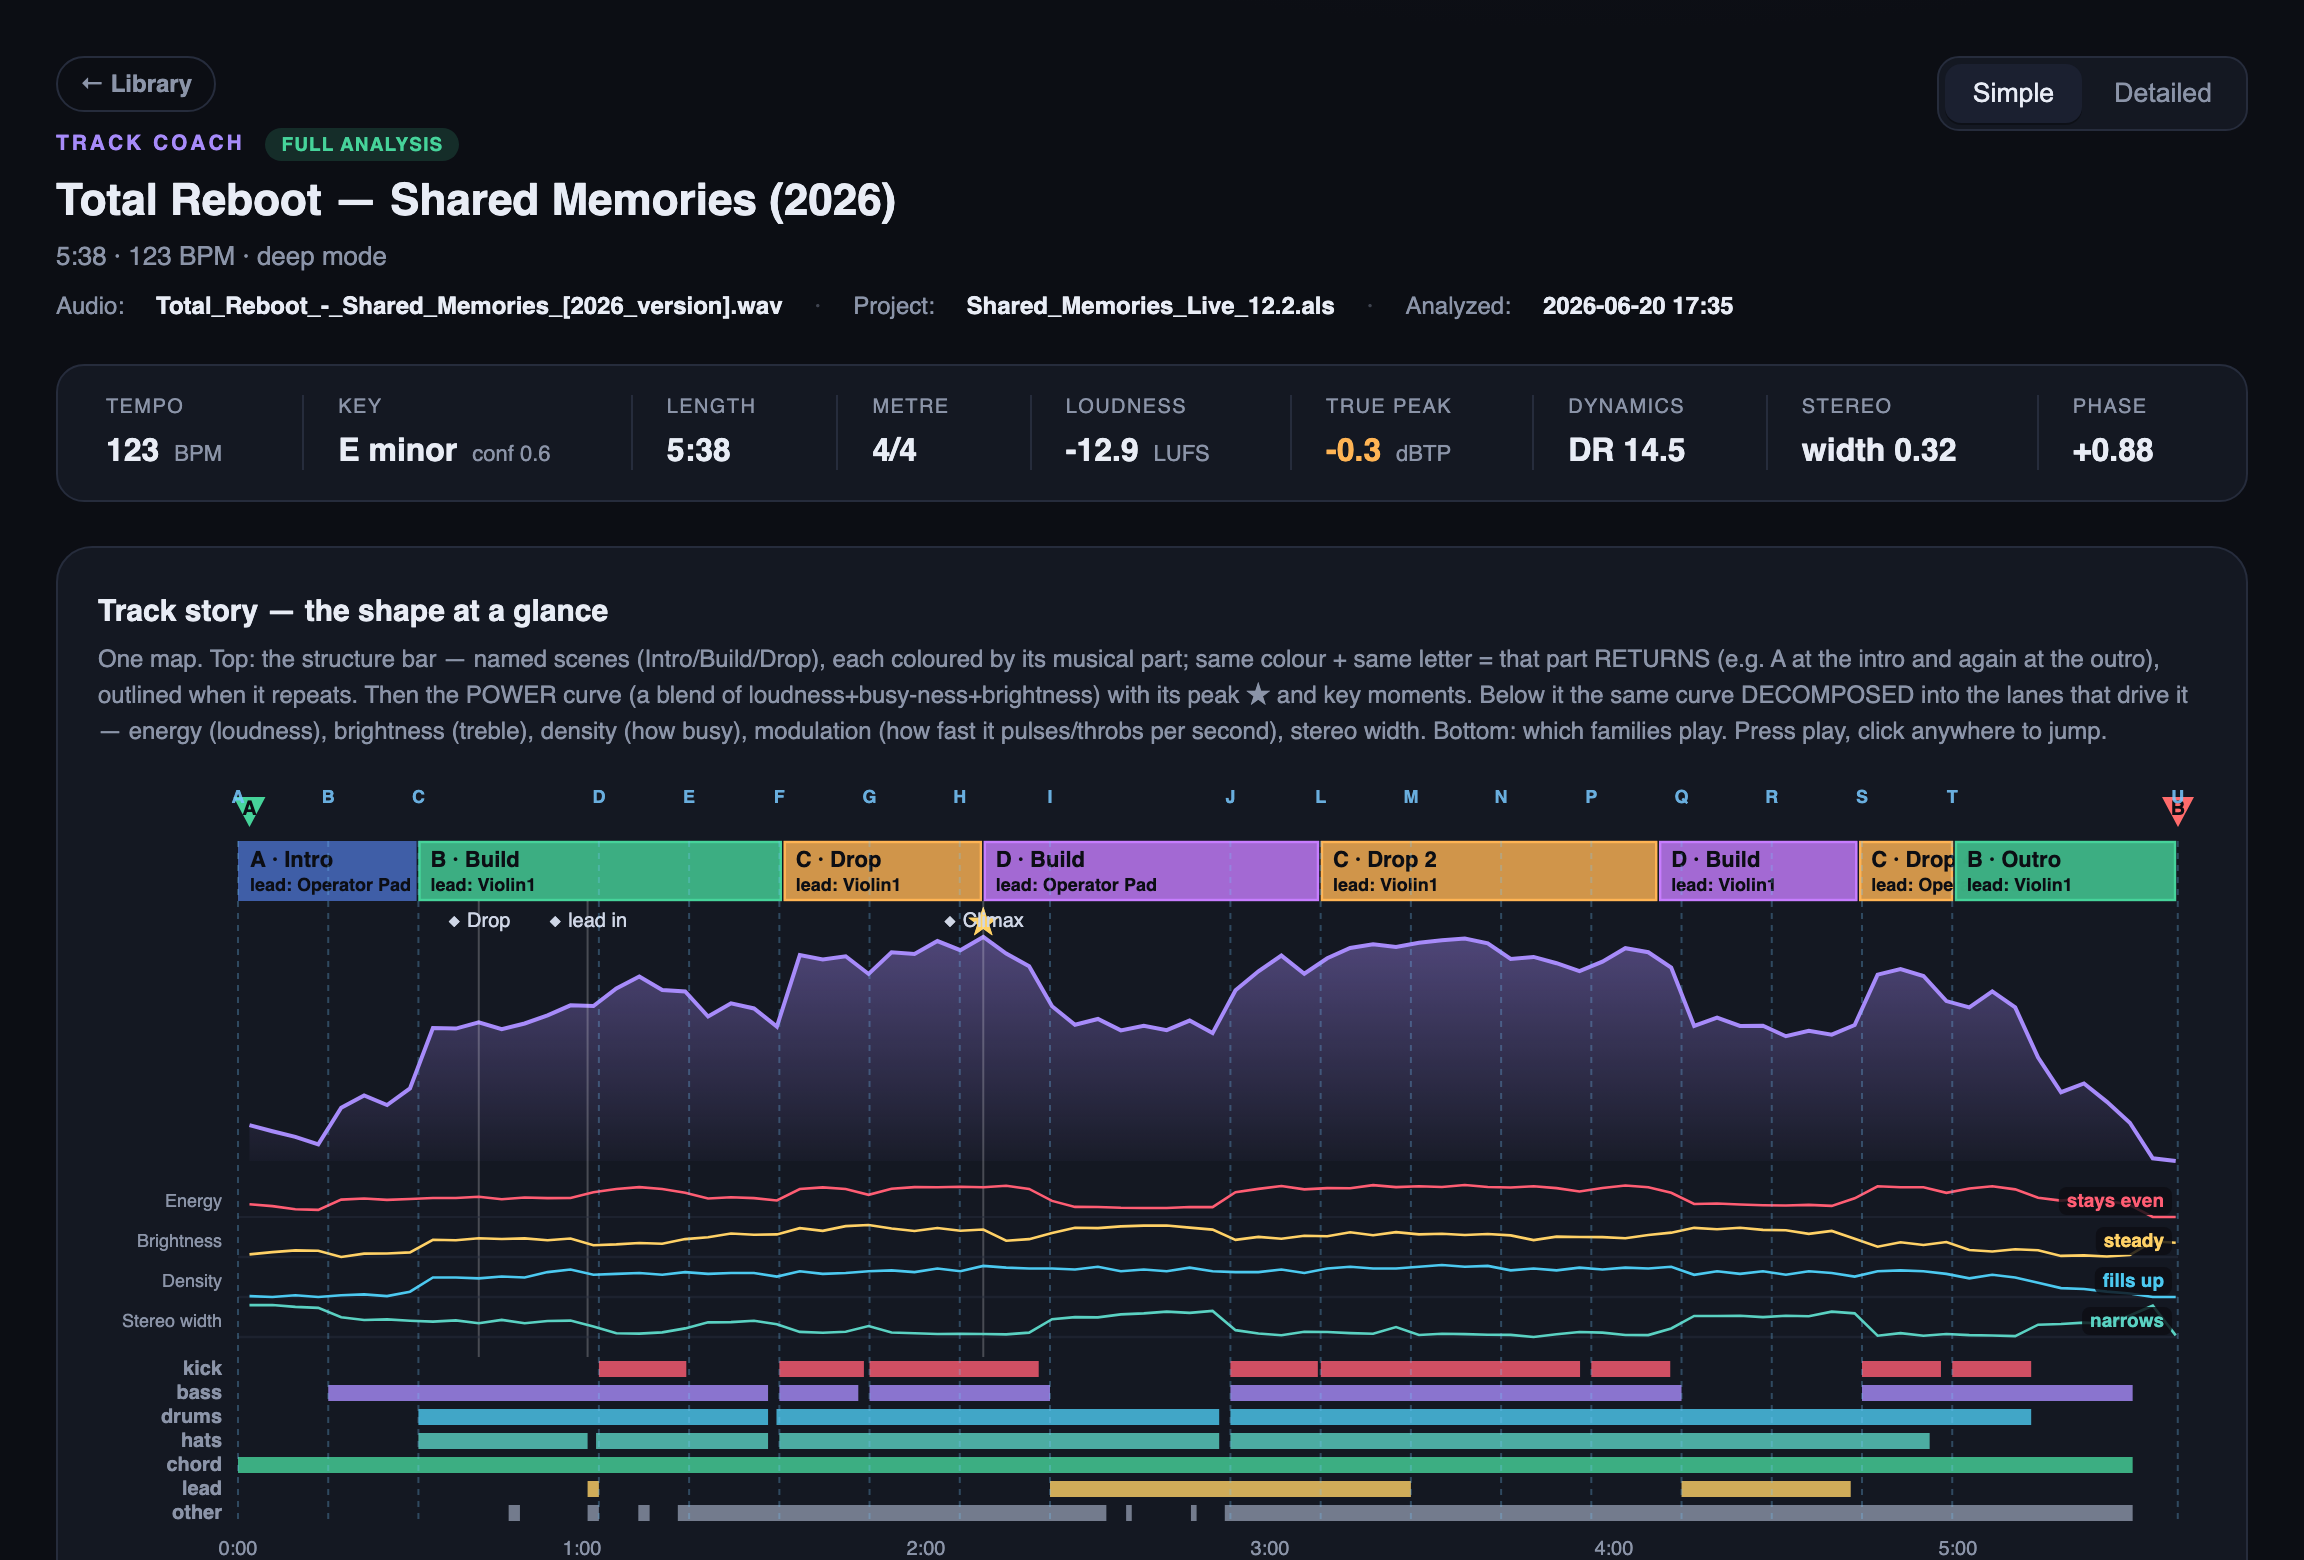
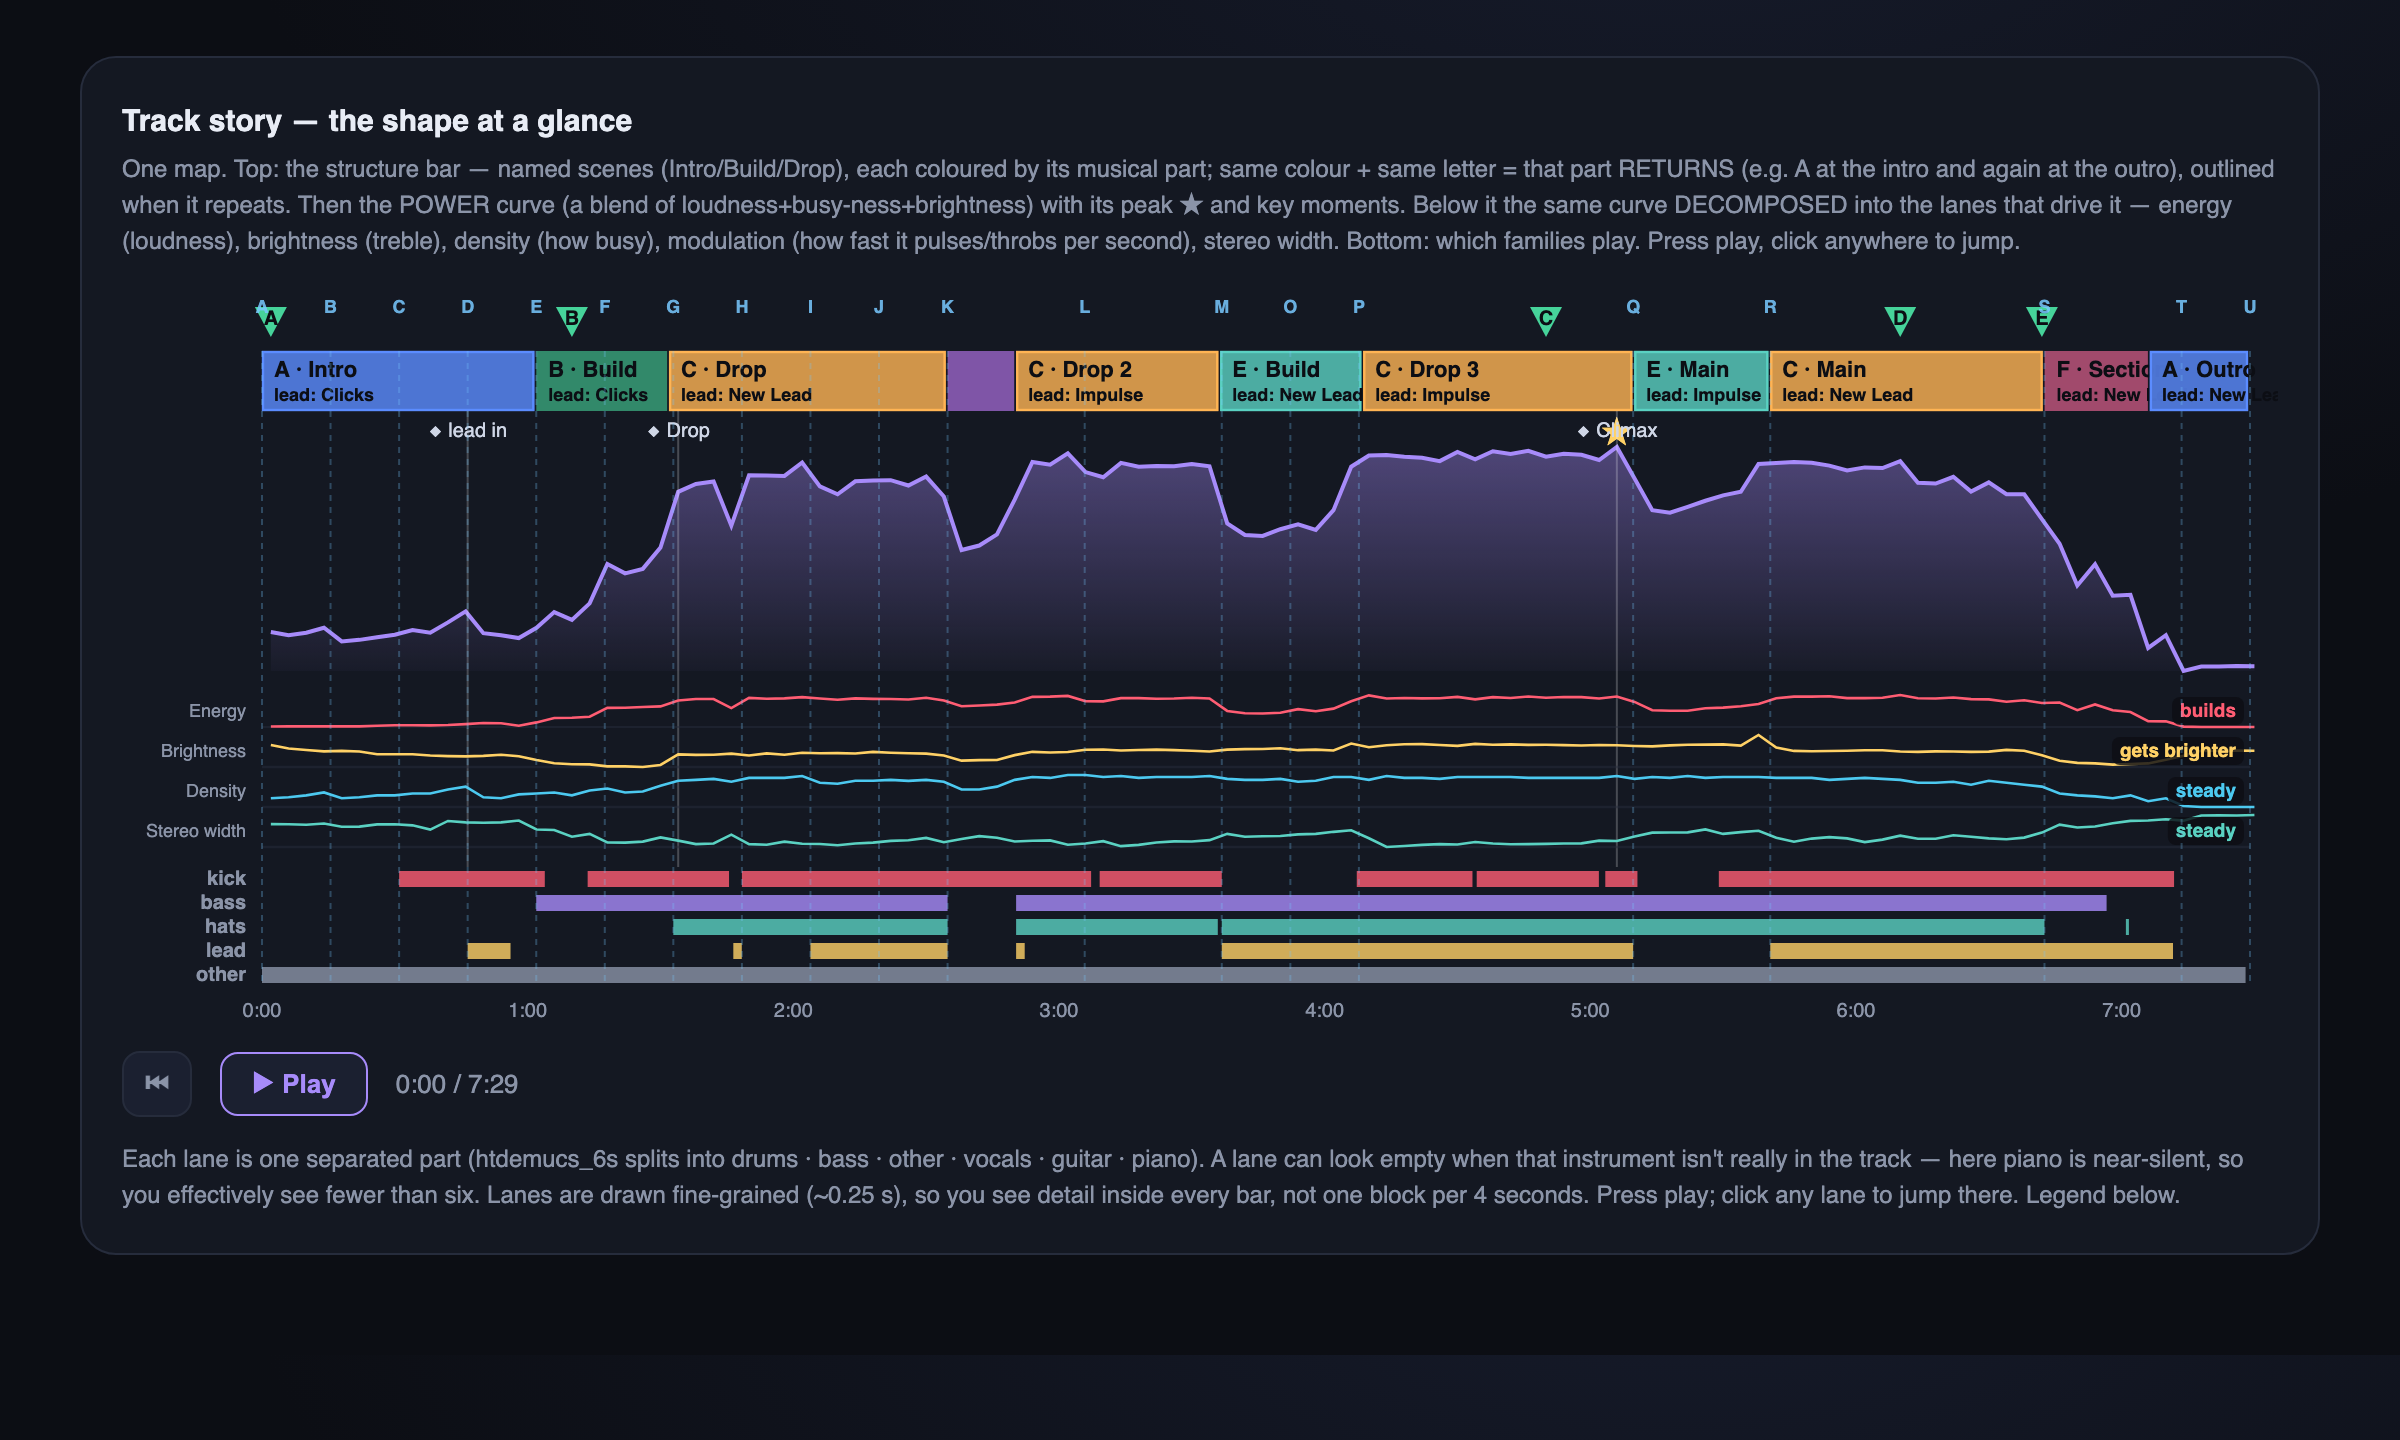
0.8.29: card→graph navigation + screenshot reshoot + README trim
- Card evidence NAVIGATION (SPEC §B.13 build order, half 2): clicking a timecoded
  card seeks + scrolls to the graph and now pulses the graph panel so the eye lands
  where the playhead jumped. CSS/DOM only — the canvas draw is untouched (the fragile
  surface). Matrix INV-34; test CardClickPulsesTheGraph written red-first → green.
- Screenshots reshot (sonnet-worker, ~28k tok off main): docs/hero.png = the whole
  main graph; docs/recommendations.png = cards now showing their 'Based on' lines.
- README: dropped the standalone 'Evidence & detail' section (raw file-dump data;
  the drawer is still covered in the view-ladder section) per Sasha.
- 3 library widgets re-deposited at 0.8.29.

diff --git a/scripts/build_widget.py b/scripts/build_widget.py
@@ -28,7 +28,7 @@ Usage:
 import sys, argparse, json, math, copy, re
 from pathlib import Path
 
-TC_VERSION = "0.8.28"   # Track Coach analyzer version (early; bump as it matures)
+TC_VERSION = "0.8.29"   # Track Coach analyzer version (early; bump as it matures)
 
 BAND_ORDER = ["sub", "low", "low_mid", "mid", "hi_mid", "air"]
 BAND_LABEL = {  # frequency ranges — language-neutral, never translated
@@ -2291,6 +2291,10 @@ canvas{width:100%;display:block;border-radius:10px;cursor:crosshair}
 /* §B.13 card evidence — a quiet "where this came from" line; transparency, never shouting. */
 .rec p.based{margin-top:8px;font-size:12px;line-height:1.5;color:var(--muted,#8b93a7)}
 .basedlab{display:inline-block;font-size:9.5px;font-weight:700;letter-spacing:.5px;color:#7c8398;margin-right:6px;text-transform:uppercase}
+/* INV-34 — card-click navigation: a brief pulse on the graph panel so the eye lands where the playhead
+   jumped. CSS-only (the canvas draw is untouched). */
+@keyframes graphpulse{0%{box-shadow:0 0 0 0 rgba(124,107,255,0)}18%{box-shadow:0 0 0 3px rgba(124,107,255,.55)}100%{box-shadow:0 0 0 0 rgba(124,107,255,0)}}
+#storyPanel.pulse{animation:graphpulse 1.1s ease-out;border-radius:12px}
 .empty-note{color:var(--bad);font-size:12px;margin:0 0 12px;font-weight:600}
 .foot{color:var(--muted);font-size:11.5px;margin-top:8px;text-align:center}
 .scale{display:flex;align-items:center;gap:8px;font-size:11px;color:var(--muted);margin-top:8px}
@@ -2637,7 +2641,11 @@ document.getElementById("recs").innerHTML=D.recs.map((r,i)=>{
  return `<div class="rec ${r.cls}${tb?' tb':''}"${dl}${jump}>${tag}${chip}<h3>${r.h}</h3><p>${r.p}</p>${fix}${based}</div>`;}).join("")||"<p class='hint'>—</p>";
 document.getElementById("recs").querySelectorAll(".rec[data-t]").forEach(el=>
  el.onclick=()=>{const t=+el.dataset.t;if(window.__seek)window.__seek(t);
-  document.getElementById("storyPanel").scrollIntoView({behavior:"smooth",block:"start"});});
+  const sp=document.getElementById("storyPanel");sp.scrollIntoView({behavior:"smooth",block:"start"});
+  // INV-34: a brief attention pulse on the graph PANEL (CSS/DOM only — never the canvas) so the eye
+  // catches that the playhead jumped to this card's moment. Reflow reset lets repeat clicks re-fire it.
+  sp.classList.remove("pulse");void sp.offsetWidth;sp.classList.add("pulse");
+  setTimeout(()=>sp.classList.remove("pulse"),1200);});
 
 const getCss=v=>getComputedStyle(document.documentElement).getPropertyValue(v).trim();
 // floating tooltip that follows the cursor over a chart (replaces the fixed bottom readout)

diff --git a/tests/test_widget_render.py b/tests/test_widget_render.py
@@ -195,6 +195,14 @@ class PlayerIsWired(unittest.TestCase):
         self.assertIn("if(wasPlaying)Promise.all(auds.map(s=>s.a.play()))", html,
                       "seekTo must resume (and re-sync) playback after a mid-play seek")
 
+    def test_card_click_pulses_the_graph(self):  # INV-34 (SPEC §B.13 navigation), 0.8.28
+        # Clicking a timecoded card must draw the eye to the moment on the graph: seek + scroll + a brief
+        # CSS pulse on the graph panel. The pulse is DOM/CSS only — it must not touch the canvas draw.
+        html, _ = _render(stems=("drums", "bass"))
+        self.assertIn('classList.add("pulse")', html, "card click must pulse the graph panel")
+        self.assertRegex(html, r"@keyframes\s+graphpulse", "missing the graph pulse animation")
+        self.assertRegex(html, r"#storyPanel\.pulse", "missing the .pulse rule on the graph panel")
+
 
 class QuickRunGivesAMixPlayer(unittest.TestCase):
     """INV-7. Sasha 2026-06-20 ("плеер какая разница быстрый прогон?"): a quick run has no stems

diff --git a/docs/SPEC.md b/docs/SPEC.md
@@ -493,8 +493,9 @@ classification, drum-hit breakdown, masking, role — already exist; this is the
 
 #### B.11.1 Resolution (2026-06-22) — BRIGHTNESS is descriptive, not a prescriptive per-stem card (Sasha)
 When A1 (per-measure validity) reached brightness, Sasha rejected the *premise*, not just the threshold:
-*"я пока не убеждён что что-то должно быть ярче чего-то… а ошибка это или нет, тебе откуда знать? может там
-барабаны должны врываться, а может синт. думаю это лучше потом на визуализацию какую-то спихнуть."* The point:
+*"I'm not convinced yet that anything *should* be brighter than anything else — and whether it's a mistake,
+how would you know? Maybe the drums are meant to burst in, maybe a synth. Better to push this to some
+visualization later."* The point:
 a part being **brighter/darker than the rest is not a defect** — brightness divergence carries no intent, the
 coach cannot know whether the bright burst is wanted (a drum fill, a synth stab) or a mistake. A prescriptive
 card ("the lead is brighter than the rest — worth a second listen") therefore **asserts a problem it can't
@@ -514,7 +515,7 @@ justify** (the credibility invariant: don't present a guess as a finding). Resol
    reading. This is a stronger filter than raw validity and is why E2 widens AFTER this, not before.
 
 ### B.12 Producer's read — name HOW it develops, flag an idle axis (2026-06-23, Sasha — the artistic layer)
-The Producer's read is authored prose — *"вот что я слышу и мои мысли по ходу дела"*. Its job is
+The Producer's read is authored prose — *"here's what I hear, and my thoughts as I go"* (Sasha). Its job is
 **OBSERVATION**, not a command: the actionable "do X" lives in the **cards**; the read carries thinking-aloud
 + technical remarks (the two-layer principle, memory `track-coach-two-layers-cards-vs-read`). So the read MAY
 state a precise observation or a soft flag **without** forcing a fake action item.
@@ -526,8 +527,8 @@ observation:
   brightens vs darkens, busier vs thins, widens vs tightens the image. (F1, prover 2026-06-23: dominance is on
   `|trend|`, so any axis can be dominant while moving DOWN — the read must never say "grows by brightness" on a
   darkening track.)
-- **flag an idle axis** as a soft option, never a defect — *"стерео и плотность почти стоят — образ всю
-  дорогу узкий; если хочется раскрытия к финалу, это незанятая ось."*
+- **flag an idle axis** as a soft option, never a defect — *"stereo and density barely move — the image
+  stays narrow the whole way; if you want it to open up toward the finale, that's an unused axis."*
 - **Credibility:** the verdict comes from the measured trends via a pure helper `development_mode(core)`
   reading `energy_trend` / `brightness_trend` / `density_trend` / `stereo_width_trend`. **All four are the SAME
   metric — Pearson correlation of the curve with its time index (`_common.trend`), in [−1,1], scale-invariant
@@ -547,9 +548,9 @@ observation:
   (This SUPERSEDES the earlier "empty narrative → panel always hidden" rule.)
 
 ### B.13 Card evidence — every card names where it came from (the "based-on" line; 2026-06-23, Sasha)
-Sasha: *"показать какие сигналы на каждую карточку повлияли."* Every recommendation card carries a plain
+Sasha: *"show which signals drove each card."* Every recommendation card carries a plain
 line saying what it is **based on**. The credibility trap (memory `track-coach-card-evidence`): a raw lone
-number/tag says nothing — *"динамика 30.7 — это много? в апельсинах или чебурашках?"*. So the based-on line is
+number/tag says nothing — *"dynamics 30.7 — is that a lot? measured in what, oranges?"* (Sasha). So the based-on line is
 in **plain language, never a bare metric identifier** (`true_peak_db`, `dynamic_range_db`).
 - **Scope of "every card" (F2, prover 2026-06-23): the `D.recs` list** rendered at `#recs` (the "Start here"
   advice) — mix-level recs AND per-stem cards. The separately-built note cards in the separation / rhythm /
@@ -560,10 +561,15 @@ in **plain language, never a bare metric identifier** (`true_peak_db`, `dynamic_
   **fused (Tier-B/C)** card names the **combination** ("the bass and the lead overlap around ≈290 Hz for ~half
   the track"), the fusion from `signal_value_map.md`. Source is multi-level: a whole-track signal / a separated
   part / an `.als` moment.
-- **Build order = MEANING then NAVIGATION** (Sasha): (1) the plain based-on line per card — THIS increment;
-  (2) click→highlight the lane / part / moment on the graph — next, UI-risky, deferred.
-- **Subtle in the UI** — transparency, not overload (the "не перегружать" steer). A quiet muted line under the
-  card body.
+- **Build order = MEANING then NAVIGATION** (Sasha): (1) the plain based-on line per card — done 0.8.27;
+  (2) **NAVIGATION (0.8.28):** clicking a timecoded card seeks the playhead to that moment AND scrolls the
+  main graph into view (already wired), now plus a brief **attention pulse on the graph container** so the eye
+  catches that the playhead jumped there. The pulse is a **CSS/DOM class toggle on the graph panel — it does
+  NOT touch the canvas drawing** (deliberately low-risk: the canvas render is the fragile surface we never edit
+  blind). A deeper per-lane / per-part highlight (light up the exact lane the card is about) stays deferred —
+  it needs canvas work and a live render review.
+- **Subtle in the UI** — transparency, not overload (Sasha's "don't overload" steer). A quiet muted line under
+  the card body.
 - **Machine-checkable invariant (the rest is authoring quality):** every `D.recs` entry has a **non-empty**
   `based_on`. "Plain language / not a bare tag / does not restate the action" is authored-prose quality, not
   unit-tested.

diff --git a/CHANGELOG.md b/CHANGELOG.md
@@ -5,6 +5,14 @@ versions are the analyzer version printed in the widget footer (`TC_VERSION`).
 
 The format loosely follows [Keep a Changelog](https://keepachangelog.com/). Newest first.
 
+## [0.8.29] — 2026-06-23
+
+### Added
+- **Clicking a recommendation now takes you to the moment on the graph.** A timecoded card seeks the player
+  to its moment, scrolls the main graph into view, and gives the graph a brief pulse so your eye lands where
+  the playhead jumped — the read-it / see-it / hear-it loop in one click. (A deeper per-lane highlight is still
+  to come.)
+
 ## [0.8.28] — 2026-06-23
 
 ### Fixed
@@ -488,9 +496,9 @@ disappears in a heavier one.
 
 ### Changed
 - **Callout cards under the graph**: Simple shows the first 3 (calm), Detailed shows all
-  ("в детальном больше"). CSS cap on `#storyCues` in Simple only.
+  (Sasha: "more in Detailed"). CSS cap on `#storyCues` in Simple only.
 - **Tonal balance moved OUT of the Evidence drawer** into a standalone panel, placed last before
-  the collapsible — always visible in both views (Sasha: "он прикольный"). The Evidence drawer is
+  the collapsible — always visible in both views (Sasha: "it's neat"). The Evidence drawer is
   now arrangement + automation + stem↔track map + rhythm + transcribed notes (no tonal).
 - Default view confirmed Simple. Tests 60 → 61.
 

diff --git a/README.md b/README.md
@@ -53,14 +53,6 @@ Your automation is what you *meant* to happen; the audio is what *did*. Track Co
 
 <sub>**The "intention" layer:** real automation envelopes aligned to the audio, with the Brightness arc ghosted into each lane for direct comparison. It's where the *"the cutoff stops moving at 2:45 but brightness keeps rising to 3:10"* recommendation comes from — now you can see it, not just read it.</sub>
 
-### Evidence & detail
-
-Collapsed by default at the bottom of every view, one drawer holds everything it measured — the receipts behind every call above:
-
-![Evidence drawer — tonal balance, the project arrangement, stem↔track map, rhythm and separation quality, transcribed notes](docs/evidence.png)
-
-<sub>**The full drawer:** the mix's average spectrum (**tonal balance**), the real **arrangement** from the `.als`, the **stem ↔ track map** (does separation match the project?), per-stem **rhythm & separation quality**, and the **transcribed notes**. Nothing interpreted here — just the measurements the read is built on.</sub>
-
 ### Three views, one ladder
 
 The views stack — each adds to the one below, so nothing visible in a lighter view ever disappears in a heavier one:

diff --git a/docs/TEST_MATRIX.md b/docs/TEST_MATRIX.md
@@ -94,6 +94,7 @@ The layer a flat grid misses — these catch cross-state bugs (e.g. INV-7 = the 
 | INV-31 | **Every advice card names where it came from (card evidence, SPEC §B.13, Sasha 2026-06-23).** Every entry in `D.recs` (the `#recs` "Start here" list — mix-level recs AND per-stem cards) carries a NON-EMPTY `based_on` line. It is plain language, never a bare metric identifier (`true_peak_db`); a single-signal (Tier-A) card may name one signal in words, a fused (Tier-B/C) card names the combination. Panel note cards (separation/rhythm/project) are out of scope this increment (F2). Machine-checkable part = non-empty + present on all `D.recs`; the plain-language/non-restating quality is authored. | `test_recs::CardEvidenceBasedOn` |
 | INV-32 | **`development_mode(core)` is a deterministic, direction-carrying read of how the track develops (SPEC §B.12, Sasha 2026-06-23).** Pure helper over the four Pearson trends (`energy_/brightness_/density_/stereo_width_trend`, same [−1,1] unit). Returns each axis with `|trend| ≥ 0.12` as DOMINANT **with its sign** (louder/pulls-back, brightens/darkens, busier/thins, widens/tightens), and axes with `|trend| < 0.10` as idle-flag-eligible ONLY when ≥1 dominant axis exists. A track with NO dominant axis returns empty dominant + empty idle (the read then adds no development sentence — does not double-cover `energy_flat`). Calibrated by deed on the 3 library tracks. | `test_development_mode::DevelopmentMode` |
 | INV-33 | **A seek preserves playback state — clicking a rec card / cue / chart while playing must NOT stop it (Sasha 2026-06-23, 0.8.28).** `seekTo(t)` captures `wasPlaying = !master.paused`, sets every stem's `currentTime`, paints the playhead, and if it was playing **resumes all stems together** (`auds.map(s=>s.a.play())`) — which also re-syncs them so a mid-play seek can't leave the stems phased. A seek while paused stays paused (it does not auto-start). Sits beside INV-14 (exclusive playback) as a player invariant. | `test_widget_render::PlayerIsWired::test_seek_keeps_playback_running` |
+| INV-34 | **Card evidence NAVIGATION — clicking a timecoded card draws the eye to the moment on the graph (SPEC §B.13, 0.8.28).** A timecoded `#recs` card's click seeks the playhead to its moment AND scrolls `#storyPanel` into view AND briefly toggles a `pulse` class on the graph panel (a CSS attention pulse). The pulse is **CSS/DOM only — it must NOT modify the canvas draw** (the canvas is the fragile surface). The class auto-clears after the animation. Global (non-timecoded) cards don't navigate. | `test_widget_render::CardClickPulsesTheGraph` |
 
 ## §4 — Surfaces & layers
 - **S1 widget** (`build_widget.py`): **L-py** server template + substitutions (`__MODEBADGE__`,